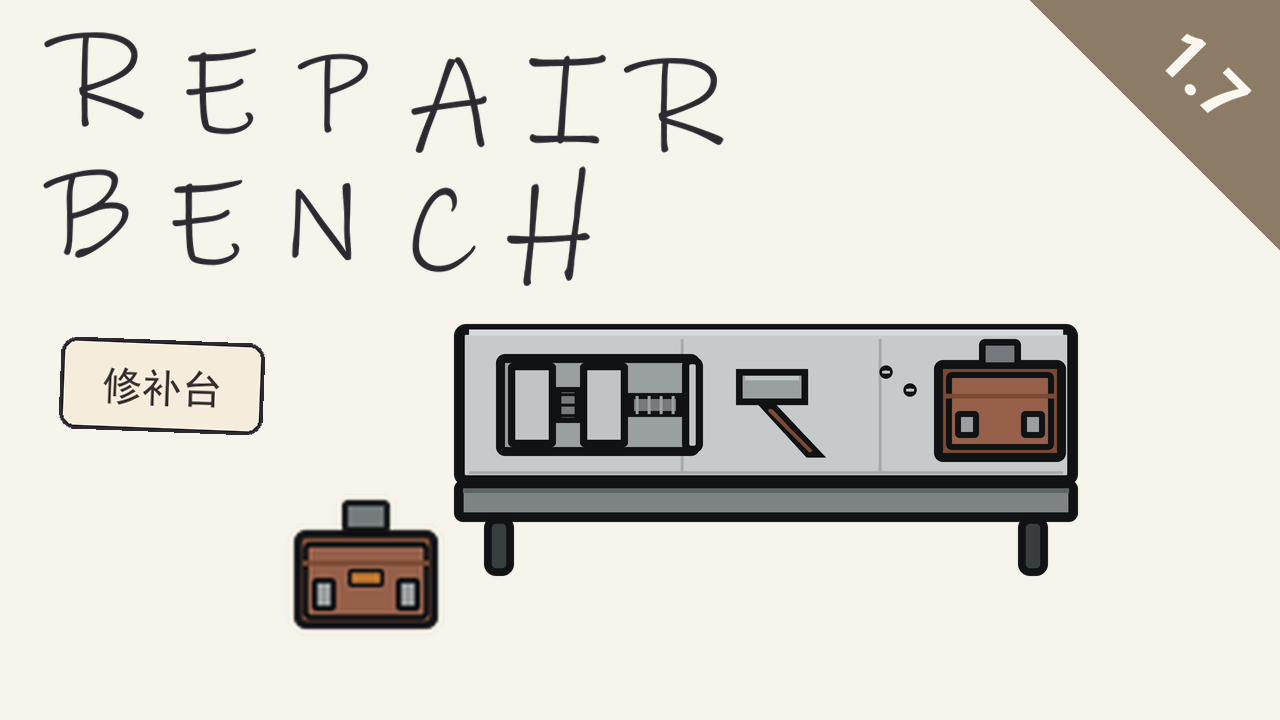
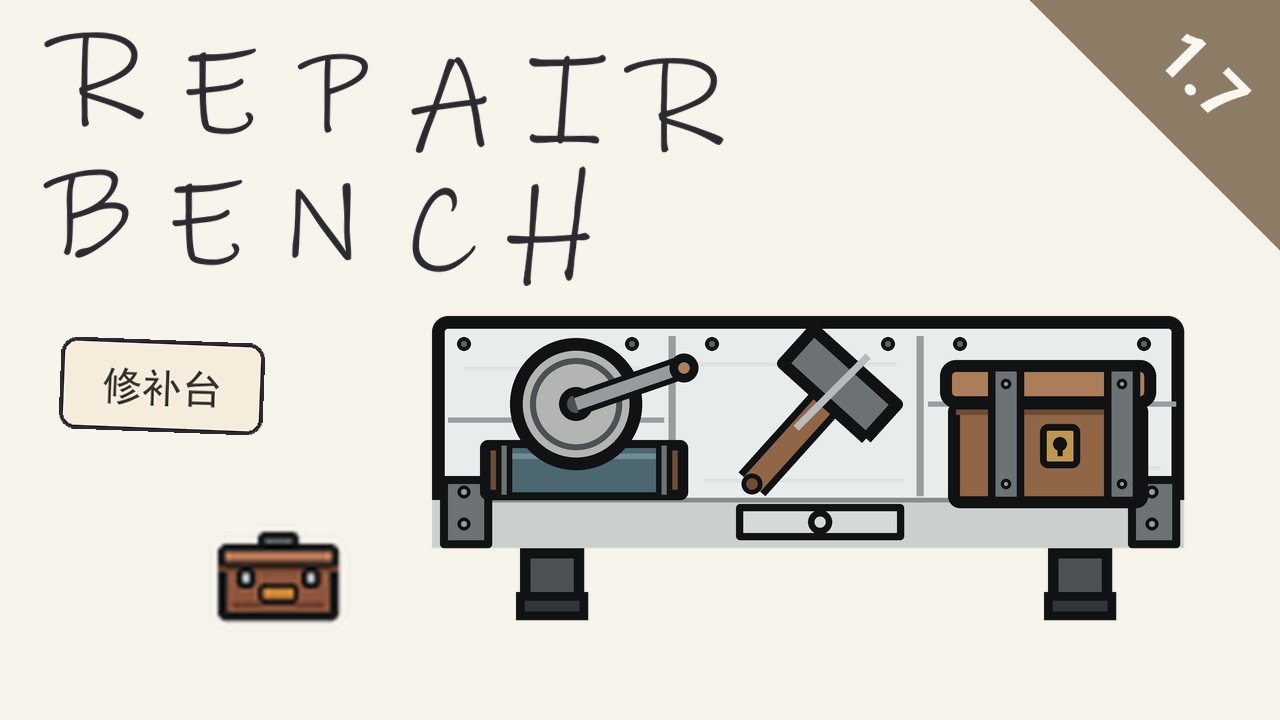
art: refresh cover/preview with the medieval bench sprite

Changed region(s): [[0.1562, 0.4278, 0.9375, 0.8861]]

diff --git a/docs/workshop-description.md b/docs/workshop-description.md
@@ -1,0 +1,214 @@
+# 工坊描述文案（Repair Bench）
+
+> 当前发布：**1.0.0**（已打包：`release\RepairBench\RepairBench-1.0.0\` 与 `RepairBench-1.0.0.zip`，392,037 B；无 PublishedFileId.txt，属首次上传）｜目标：RimWorld 1.7 ｜依赖：无
+> 更新日期：2026-11-11（1.0.0：首个发布版）
+>
+> 格式：**Steam BBCode**（`[b]`、`[h2]`、`[hr]`、`[url=]`），不是 Markdown / HTML；行首 `- ` 只是短横线当子弹点用。
+> 结构约定（沿用维护者 2026-11-08 的要求）：**正文不放「安装」「更新日志」两个板块**；更新日志只在本文件末尾「内部记录」里维护。
+> 两个「描述」不是一回事：`About/About.xml` 的 `<description>` 是游戏内纯文本，这里是工坊页 BBCode，两边内容保持一致。
+> 工坊页描述**只能去 Steam 网页/客户端手动改**——游戏内「上传/更新」不会更新已有条目的描述。
+
+## 标题
+
+首选：
+
+```text
+Repair Bench —— 修补台：把磨坏的武器、衣物、护甲修回满耐久 | 1.7
+```
+
+备选：
+
+```text
+Repair Bench 修补台 | 1.7
+```
+
+```text
+Repair Bench —— 让磨损的装备能修回 100% | 1.7
+```
+
+## 摘要 / 列表短描述
+
+```text
+给 RimWorld 1.7 加一条修装备的路：研究「修补技术」→ 造修补台 → 用 10 钢铁 + 5 任意织物/皮革做通用修补剂 → 标记地上的磨损装备（命令标记 / 物品命令栏 / 右键强制维修三种方式），小人搬到台面修回 100% 耐久，品质、材质、词条全保留。断点可续修、读档保留进度；缺台缺料有警报和台面图标提示。只修武器/衣物/护甲（不修建筑），纯新增内容。
+```
+
+## 工坊描述（中文，直接整段复制）
+
+```bbcode
+[b]Repair Bench —— 修补台：把磨坏的武器、衣物、护甲修回满耐久[/b]
+
+原版只有「修建筑」的修理工作，装备磨损了只能换新的。这个 mod 补上另一条路：把坏掉的装备标记出来，小人搬到修补台，消耗一种通用「修补剂」把它修回 100% 耐久——品质、材质、词条、耐久上限全部原样保留。
+
+修补剂不分钢、布、皮，所以任何 mod 的武器/衣物/护甲都能修。
+
+[h2]怎么用[/h2]
+- 研究「修补技术」（600 点，前置 Smithing）
+- 造修补台：任意金属或木材 75 + 15 钢铁
+- 做修补剂：10 钢铁 + 5 任意织物或皮革 → 5 个，装进台里（选中台 → 装料）
+- 发起修理，三种方式任选：
+  - Orders 菜单的「修补」标记：点选单件，或按住左键拖一个框（同原版标记手感）
+  - 选中装备 → 命令栏出现「维修装备」按钮（已标记时变成「取消维修」）
+  - 右键装备 →「维修装备」；右键修补台还能逐件「强制维修」
+- 小人把装备摆到台面上，消耗修补剂修满，修完留在台旁
+
+[h2]功能[/h2]
+[b]◆ 三种发起方式[/b]
+- 命令标记：框选/拖拽，一次标一片，和原版「搬运」标记一个手感
+- 物品命令栏：选中磨损装备就直接有按钮，不用先点标记
+- 右键菜单：普通的「维修装备」只打标记；「强制维修」立刻把选中的小人派过去（不用等工作优先级轮到它），右键修补台则列出所有待修物品，逐件指派
+
+[b]◆ 修补台[/b]
+- 3×1，可搬动、可涂漆；台体按建造材料染色（钢铁灰 / 木材棕 / 塑钢淡青）
+- 台里能存 20 个修补剂，缺料有专门提示
+- 工作点显示原版工作台那种座椅图形，物品会真的摆到台面上修
+
+[b]◆ 修补剂与消耗[/b]
+- 通用材料，不看装备材质：钢武器、布衣服、皮革护甲都用同一种
+- 10 钢铁 + 5 任意织物/皮革 做 5 个；一件装备从 0 修到满大约要 10 个（≈ 2 批材料）
+- 修理时间按缺失耐久比例算，满耐久基准约 50 秒，受「通用工作速度」和手工技能影响
+
+[b]◆ 中断与进度[/b]
+- 中途被打断、换班、读档都不白干：进度按物品记录，回来接着修
+- 修满就是 100%，不改品质、材质、词条、耐久上限，不换件、不加属性
+
+[b]◆ 提示（不用翻面板）[/b]
+- High 级警报：有装备在等修补，但地图上没台或缺料
+- 台子上的脉动「缺料」图标
+- 选中台时的修补剂余量条
+- 检视面板红字「修补剂不足」
+
+[b]◆ 手感[/b]
+- 自制金属屑粒子 + 锉磨循环音 + 修好扣合音，不引用原版素材
+- 工作时小人有前后锉磨的动作；装了 Yayo's Animation 就自动交给它播，不会两边抢动画
+
+[h2]兼容性[/h2]
+- 游戏版本：RimWorld 1.7
+- 前置：无。不加载 Harmony，只在检测到 Yayo's Animation 时借用它的 Harmony 实例做一次挂接
+- DLC：全部兼容（只用 Core，不依赖任何 DLC）
+- 纯新增内容：不改原版代码、不替换原版 Def，与常见 UI / 内容 mod 不冲突
+- 与其它维修 mod（NanoRepairTech、MendAndRecycle、Repairable Gear 等）功能重叠，可以共存，但没必要同时装
+- 旧存档可加：加材料系统之前造的台子，读档时会自动补成钢铁台（日志里会有一条提示）
+
+[h2]常见问题[/h2]
+[b]Q：为什么修不了穿在身上/拿在手里的装备？[/b]
+A：v1 只修地上的装备。原版没有「脱下衣物」命令，请先把装备丢到地上再标记。
+
+[b]Q：能修建筑吗？[/b]
+A：不能。建筑交给原版「修理」工作，这个 mod 只处理武器 / 衣物 / 护甲。
+
+[b]Q：修完的东西去哪了？[/b]
+A：留在修补台旁边，需要你自己搬回仓库（v1 不自动归仓）。
+
+[b]Q：标了没反应？[/b]
+A：按顺序看：右侧警报是不是缺台/缺料 → 台里有没有修补剂 → 小人的「修补」工作类型有没有启用 → 装备是不是在地上、有没有被别人占用。
+
+[b]Q：品质会掉吗？[/b]
+A：不会。耐久直接修满，品质 / 材质 / 词条 / 耐久上限都不变。
+
+[b]Q：会不会太强？[/b]
+A：要材料也要工时：一件装备从 0 修满大约 20 钢铁 + 10 织物/皮革，外加 600 点研究和台子本身。嫌贵或嫌便宜都能自己改：修补剂配方、每个修补剂能修多少、工时都写在 Defs 的 XML 里。
+
+[hr]
+[h2]反馈[/h2]
+bug、平衡意见、想要的功能（比如「穿戴中也能修」）都欢迎在下面留言；附上 Player.log 里的报错行更容易定位。
+```
+
+## Description (English, paste into the English description box)
+
+```bbcode
+[b]Repair Bench — repair worn weapons, apparel and armor back to full hit points[/b]
+
+Vanilla only has a repair job for buildings; worn gear can only be replaced. This mod adds another way: mark the damaged gear, a colonist hauls it to a repair bench and spends generic "repair kits" to restore it to 100% hit points — quality, material, traits and hit point cap all stay exactly as they were.
+
+Repair kits don't care about steel, cloth or leather, so gear from any other mod can be repaired too.
+
+[h2]How to use[/h2]
+- Research "repair techniques" (600 points, requires Smithing)
+- Build a repair bench: 75 of any metal or wood + 15 steel
+- Craft repair kits: 10 steel + 5 of any textile or leather yields 5 kits; load them into the bench (select it, then "Load")
+- Start a repair in any of three ways:
+  - The "repair" order in the Orders menu: click a single item or drag a box (same feel as vanilla orders)
+  - Select a damaged item: a "Repair item" button appears in the command bar (it becomes "Cancel repair" once marked)
+  - Right-click the item: "Repair item"; right-click the bench for per-item "Force repair"
+- A colonist places the item on the bench top, spends kits and repairs it to full; the item is left next to the bench
+
+[h2]Features[/h2]
+[b]◆ Three ways to start[/b]
+- Order marking: click or drag a box, mark a whole pile at once, same feel as the vanilla haul order
+- Item command bar: a button right on the selected item, no need to open the orders menu
+- Right-click menu: plain "Repair item" just marks it; "Force repair" sends the selected colonist immediately (ignoring work priorities); right-clicking the bench lists every pending item so you can dispatch them one by one
+
+[b]◆ The bench[/b]
+- 3x1, minifiable and paintable; tinted by its building material (steel grey / wood brown / plasteel pale cyan)
+- Holds 20 repair kits; a dedicated warning appears when it runs dry
+- Shows the vanilla work-table interaction spot (chair) and the item is actually placed on the bench top while being worked on
+
+[b]◆ Kits and cost[/b]
+- One generic material regardless of gear material: steel weapons, cloth clothes and leather armor all use the same kit
+- 10 steel + 5 of any textile/leather makes 5 kits; repairing one item from 0 to full takes about 10 kits (~2 batches)
+- Work time scales with missing hit points, about 50 seconds for a full repair at base speed, modified by General Labor Speed and Crafting skill
+
+[b]◆ Interruptions and progress[/b]
+- Getting interrupted, changing shifts or reloading a save doesn't waste the work: progress is stored per item and resumes where it stopped
+- A finished repair is exactly 100%; quality, material, traits and hit point cap are untouched
+
+[b]◆ Feedback you can't miss[/b]
+- A High priority alert when gear is waiting for repair but there is no usable bench or not enough kits
+- A pulsing "out of fuel" icon on the bench
+- A kit gauge on the selected bench
+- A red "not enough repair kits" line in the inspect pane
+
+[b]◆ Feel[/b]
+- Custom metal-shaving particles, a filing loop and a finished "clunk" sound — no vanilla assets are reused
+- The colonist plays a filing animation while working; if Yayo's Animation is installed the animation is handed over to it so the two never fight
+
+[h2]Compatibility[/h2]
+- Game version: RimWorld 1.7
+- Requirements: none. Harmony is not loaded; only if Yayo's Animation is detected does the mod borrow its Harmony instance for a one-time hook
+- DLC: all (Core only, no DLC dependency)
+- Pure addition: no vanilla code is patched, no vanilla defs are replaced
+- Coexists with Yayo's Animation (its work animation is used when present)
+- Overlaps with other repair mods (NanoRepairTech, MendAndRecycle, Repairable Gear, ...); they can coexist but you don't need both
+- Existing saves: benches built before the material system was added are migrated to steel on load (one log line explains it)
+
+[h2]FAQ[/h2]
+[b]Q: Why can't I repair gear that is worn or equipped?[/b]
+A: v1 only repairs gear lying on the ground. Vanilla has no "take off apparel" order, so drop the item first and then mark it.
+
+[b]Q: Can it repair buildings?[/b]
+A: No. Buildings use the vanilla repair work; this mod only handles weapons, apparel and armor.
+
+[b]Q: Where does the repaired item go?[/b]
+A: It stays next to the bench; you haul it back yourself (v1 does not auto-haul).
+
+[b]Q: I marked something and nothing happens.[/b]
+A: Check in this order: is the alert about a missing bench or missing kits? Are there kits in the bench? Is the "repair" work type enabled for that colonist? Is the item on the ground and not reserved by someone else?
+
+[b]Q: Does quality drop?[/b]
+A: No. Hit points go straight to full; quality, material, traits and the hit point cap are unchanged.
+
+[b]Q: Is it overpowered?[/b]
+A: It costs materials and work: one full repair is roughly 20 steel + 10 textile/leather on top of 600 research points and the bench itself. Tuning is plain XML in Defs (kit recipe, kits per repair, work amount), so you can change it freely.
+
+[hr]
+[h2]Feedback[/h2]
+Bugs, balance notes and feature requests (such as "repair worn gear") are welcome below; including the relevant Player.log error lines makes them much easier to track down.
+```
+
+## 其它可填项
+
+- **标签**：Gameplay、Items、Weapons（以上传对话框里实际提供的为准；不选 Translation，本 mod 自带中英双语）
+- **预览图**：`About/Preview.png`（1280×720，自制封面：REPAIR BENCH + 修补台 + 贴图道具）
+- **可见性**：公开
+- **更改说明（游戏自动生成）**：游戏内上传会附一条 `[Auto-generated text]: Update on <时间>.`，不可自定义；首版没有这条
+
+## 内部记录（不贴 Steam）
+
+- v1.0.0（2026-11-11）：首个发布版——修补台（3×1、按材料染色、可涂漆、20 个修补剂容量）、通用修补剂（10 钢铁 + 5 任意织物/皮革 → 5）、修补技术研究（600、前置 Smithing）、Orders 修补标记（可拖框）、物品命令栏维修按钮、右键维修 / 强制维修（装备与台两种入口）、按缺失耐久扣料与计时、断点续修 + 读档保留进度、四层缺料提示、自制金属屑粒子与锉磨/扣合音、自制工作动画（自动让位给 Yayo's Animation）、中英双语。
+
+## 维护提示
+
+1. 改功能时同步：本文档「功能」段 → `About/About.xml` 的 `<description>`（纯文本，不能用 BBCode）→ 工坊页面（手动改）。
+2. 发版流程：三处版本号同步（`About/About.xml` / `RepairBenchMod.cs` / `.csproj`）→ build → `tools\verify.ps1 -Strict` → `tools\deploy.ps1` → `tools\make-release.ps1` → `git tag v<版本>` → 游戏内上传/更新。
+3. 首次上传后游戏会写 `About\PublishedFileId.txt`，**不要丢**（不进 git、不进发布包）；之后每次部署脚本会先备份再写回，避免新建重复工坊条目。
+4. 粘贴后自检：无 Markdown（`#`、`**`）、无 HTML、BBCode 标签成对闭合、正文没有「安装」「更新日志」板块。
